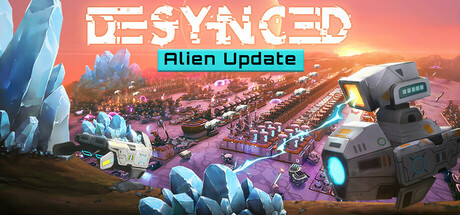
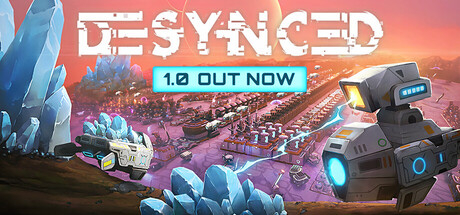
chore: Update generated game content

diff --git a/README.md b/README.md
@@ -92,9 +92,9 @@ You land on a frozen planet in a tiny rocket with a robot inside. Harvest and co
 <img align="right" width="215" height="215" src="./generated/images/desynced.jpg" />
 
 Desynced is a sci-fi strategy game with fully customizable units and behaviors. Gather, build, research, and explore the unknown. Alone or with friends, unveil the mystery of an AI on the edge of self-awareness and uncover the hidden truth in this blend of strategy, automation, and exploration.
-* Genre: Simulation, Strategy, Early Access
+* Genre: Simulation, Strategy
 * Available for <img src="./assets/windows.svg" alt="Windows" title="Windows" width="15"/>
-* Release: Tuesday, 15. August 2023
+* Release: Thursday, 05. March 2026
 * [Website of Desynced](https://www.desyncedgame.com/)
 * [Desynced @ Steam](https://store.steampowered.com/app/1450900/)
 
@@ -156,10 +156,10 @@ An open-ended factory management game with RTS and tower defense elements.
 
 <img align="right" width="215" height="215" src="./generated/images/net-attack.jpg" />
 
-CODE OR DIE! Hack enemy systems &amp; survive the security response by engineering lethal bullet-heaven algorithms. Your brain power determines your firepower across 150&#43; programming nodes. Debug your failures. Optimize your code. Complete the heist. HACK THE PLANET!
-* Genre: Action, Indie, Early Access
+CODE OR DIE! Hack enemy systems &amp; survive the security response by engineering lethal bullet-heaven algorithms. Your brain power determines your firepower across 190&#43; programming nodes. Debug your failures. Optimize your code. Complete the heist. HACK THE PLANET!
+* Genre: Action, Indie
 * Available for <img src="./assets/windows.svg" alt="Windows" title="Windows" width="15"/>
-* Release: Thursday, 19. June 2025
+* Release: Thursday, 12. March 2026
 * [Website of Net.Attack()](https://www.byterockers.games/)
 * [Net.Attack() @ Steam](https://store.steampowered.com/app/3047370/)
 
@@ -182,7 +182,7 @@ Satisfactory is a first-person open-world factory building game with a dash of e
 
 <img align="right" width="215" height="215" src="./generated/images/screeps-arena.jpg" />
 
-Screeps: Arena is an online PvP strategy game for programming enthusiasts. You write real JavaScript to control your units, and they fight autonomously against other players in a 1v1 match-based arena environment.
+Screeps: Arena is an online asynchronous PvP strategy game for programming enthusiasts. You write real JavaScript to control your units, and they fight autonomously against other players in a 1v1 match-based arena environment.
 * Genre: Indie, Simulation, Strategy
 * Programmable: Yes 🤖
 * Available for <img src="./assets/windows.svg" alt="Windows" title="Windows" width="15"/> <img src="./assets/apple-os.svg" alt="macOS" title="macOS" width="15"/> <img src="./assets/linux.svg" alt="Linux" title="Linux" width="15"/>
@@ -226,7 +226,7 @@ shapez is an easy-going, minimalistic factory building game about the automation
 
 <img align="right" width="215" height="215" src="./generated/images/shapez-2.jpg" />
 
-Dive into a factory-building game with the focus on just that – building huge space factories! Construct sprawling multi-level factories and satisfying production lines without limits. Tackle increasingly complex automation challenges at your own pace – you won’t have to worry about enemies.
+Dive into a factory-building game with the focus on just that – building huge space factories! Design sprawling multi-level factories and satisfying production lines without limits. Tackle progressively challenging automation goals at your own pace, without the threat of enemies.
 * Genre: Casual, Indie, Simulation, Strategy, Early Access
 * Available for <img src="./assets/windows.svg" alt="Windows" title="Windows" width="15"/> <img src="./assets/apple-os.svg" alt="macOS" title="macOS" width="15"/> <img src="./assets/linux.svg" alt="Linux" title="Linux" width="15"/>
 * Release: Thursday, 15. August 2024
